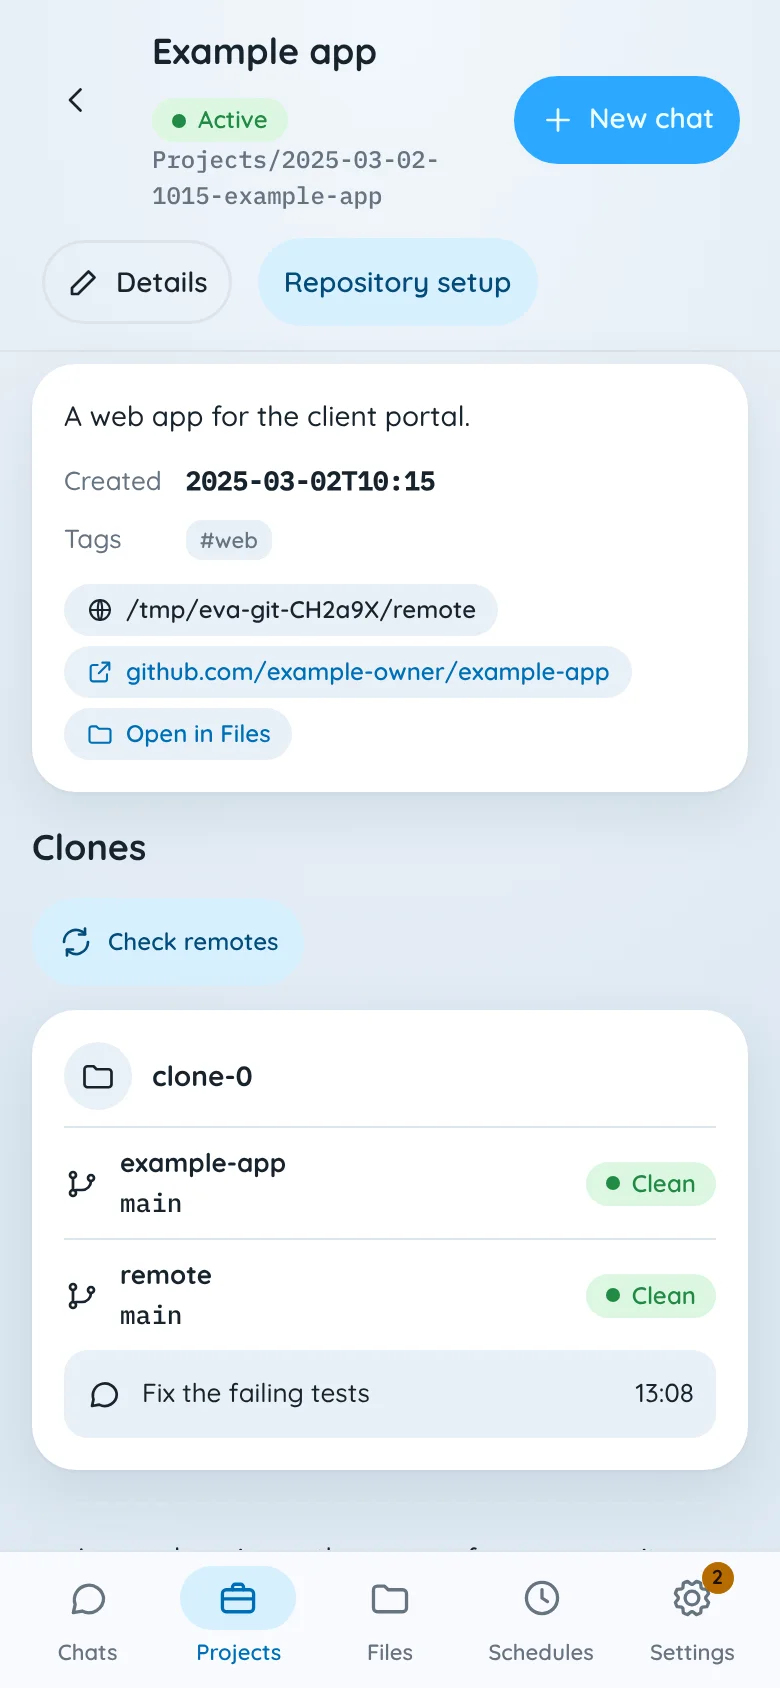
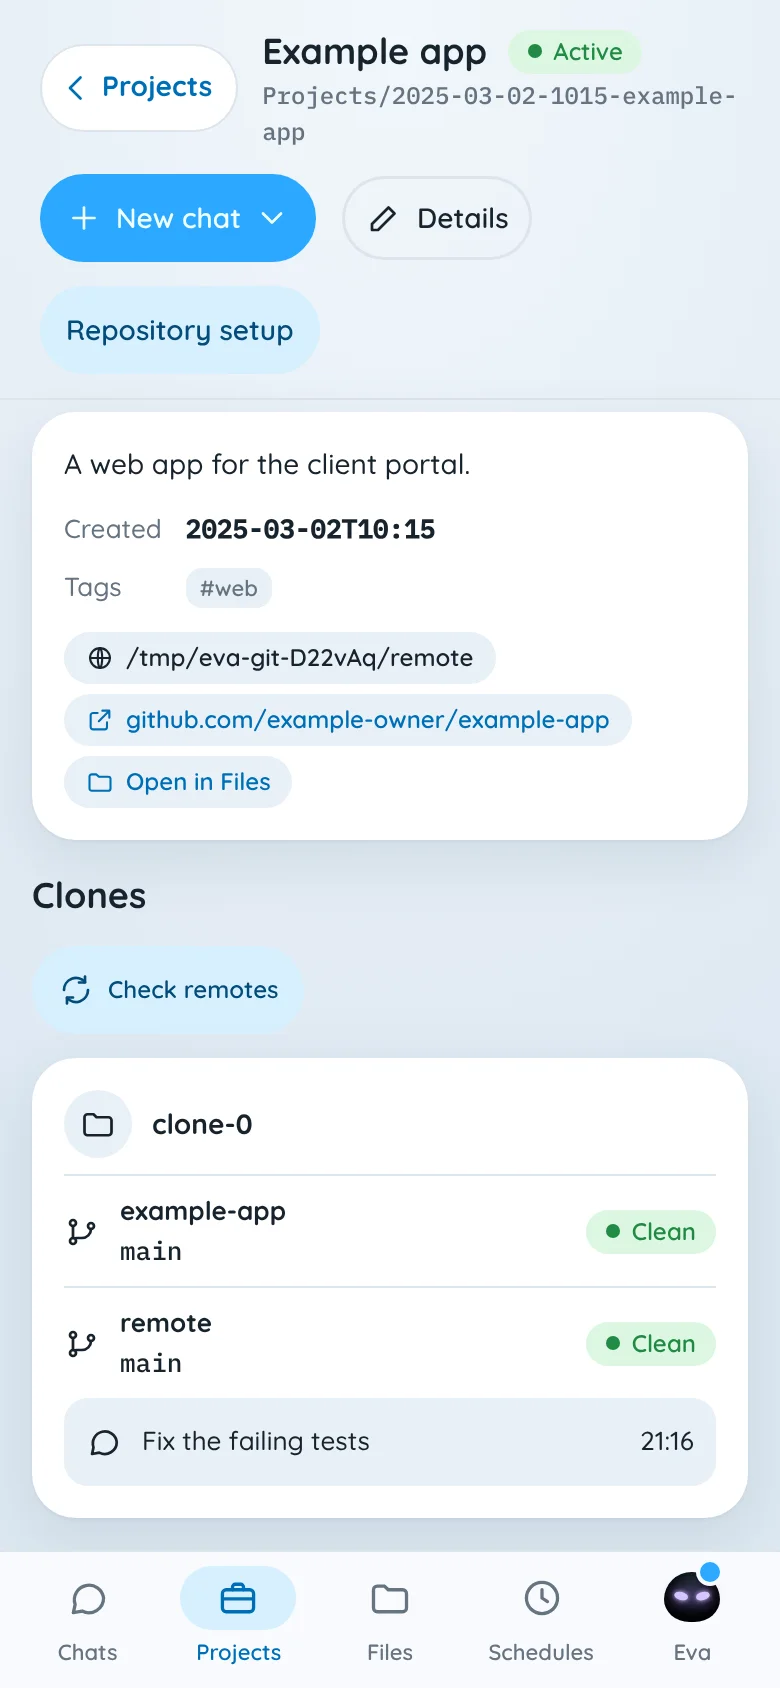
docs: describe the Projects home page and capture it
The EVE guide gets a Projects home section with new captures, and the
project captures show the named back button. The user guide says what a
computer and a phone show with no project open (#840).

Claude-Session: https://claude.ai/code/session_011YsmygLdDb8MqDVCVBNAyt

Changed region(s): [[0.0308, 0.0, 0.9846, 0.9858]]

diff --git a/scripts/capture-design.ts b/scripts/capture-design.ts
@@ -267,6 +267,15 @@ const scenes: readonly Scene[] = [
       await page.locator(".clone-card").first().waitFor();
     },
   },
+  {
+    // With no project open (#840): the home page beside the list on a computer, the list on a phone.
+    name: "projects-home",
+    show: async (page, view) => {
+      await openProjects(page);
+      await page.locator("button.project-card").first().waitFor();
+      if (view.device === "computer") await page.getByRole("region", { name: "Timeline" }).waitFor();
+    },
+  },
   { name: "project-chat", show: (page, _view, demo) => openChat(page, demo.projectChat) },
   {
     name: "schedules",

diff --git a/docs/guide/reference.md b/docs/guide/reference.md
@@ -271,7 +271,7 @@ A request from Eva's own computer can come from any program there, so only the t
   - Tick **Create a Google Drive folder** to get a folder in your Drive. It needs the Drive access "Read and change", in **Settings > Connections > Google**.
   - When one of these steps fails, the project stays. The form says what failed, so you can do that step by hand.
 - **Status:** each project has one status. **Active** is a project that you develop. **In use** is a project that you use now, such as a project that makes the week's menus. The other statuses are **Idea**, **Paused** and **Closed**.
-  - The Projects page opens with the **Current** filter: the active and in-use projects. Tap a status to see only that status. In the search, in `eva projects` and in Telegram's `/projects`, type `status:in-use`, `status:current` or `status:any`.
+  - The Projects page opens with the **Current** filter: the active and in-use projects. Tap a status to see only that status. With no project open, a computer shows the chats that need you, your recent chats, a timeline of the active and paused projects, and the count of each status in a year. Tap a count to filter the list. A phone shows the chats that need you above the list. **Projects**, beside the title of a project, brings you back. In the search, in `eva projects` and in Telegram's `/projects`, type `status:in-use`, `status:current` or `status:any`.
   - Each new chat with Eva pins your active and in-use projects, with the title, the folder and the summary. So Eva knows them without a search. See [Pinned files](#pinned-files).
   - The **New project** form writes the first paragraph of the description as the project's `summary:`. The project page shows it.
 - **Repository setup:** open it from the project page. It checks each repository by its type. A repository with no type, such as one that you added by hand, shows no report: pick its type first.

diff --git a/docs/design/eve/README.md b/docs/design/eve/README.md
@@ -307,6 +307,14 @@ Each page has a computer and a phone capture, in light and dark. The light captu
 - The list opens with the "Current" filter: the active and in-use projects.
 - Each clone is a card with its branch, its state and its chats.
 - A project card shows the "Unread" pill while one of its chats has an answer that the person did not see.
+- A project page has a "Projects" back button beside its title, on both sizes.
+
+### Projects home
+
+![Computer](screenshots/projects-home-computer-light.webp) ![Phone](screenshots/projects-home-phone-light.webp)
+
+- With no project open, a computer shows a home page: Needs you, Recent, a timeline of the active and paused projects, and the counts of a year. A phone shows only Needs you, above the list.
+- Each project of the timeline has one file type colour, by a hash of its folder name. A paused bar is a faint bar of that colour. The today line takes the accent.
 
 ### A chat in a clone
 
